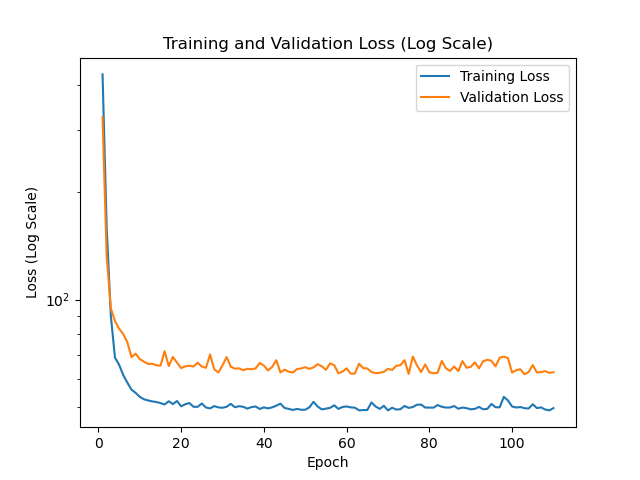
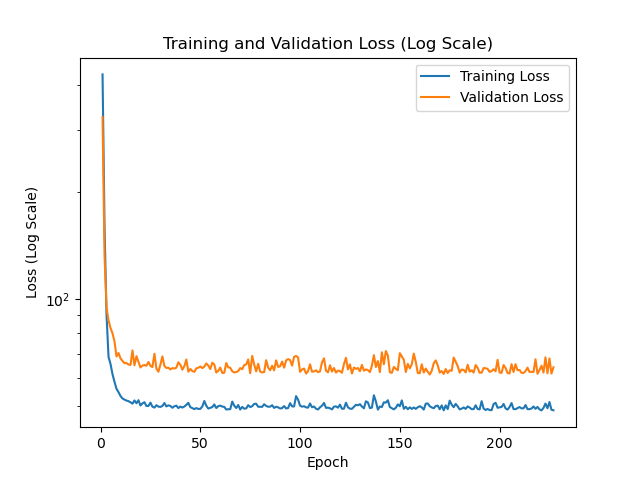
+ 2 node data

diff --git a/training/results/simple_graphs/model.py b/training/results/simple_graphs/model.py
@@ -1,0 +1,78 @@
+import torch
+import torch.nn.functional as F
+from torch_geometric.data import Data
+from torch_geometric.nn import GraphConv, global_mean_pool
+
+
+class GNN(torch.nn.Module):
+    def __init__(self, num_features, hidden_channels):
+        super(GNN, self).__init__()
+        torch.manual_seed(1)
+        self.conv1 = GraphConv(num_features, hidden_channels)
+        self.conv2 = GraphConv(hidden_channels, hidden_channels)
+        self.lin = torch.nn.Linear(hidden_channels, 1)
+
+    def forward(self, x, edge_index, edge_weight, batch):
+
+        # print(f"Shape of x: {x.shape}")
+        x = self.conv1(x, edge_index, edge_weight)
+
+        # print(f"Shape of x after conv1: {x.shape}")
+        x = F.relu(x)
+
+        x = self.conv2(x, edge_index, edge_weight)
+        # print(f"Shape of x after conv2: {x.shape}")
+
+        x = global_mean_pool(x, batch)
+        # print(f"Shape of x after global_mean_pool: {x.shape}")
+
+        x = F.dropout(x, p=0.5, training=self.training)
+        x = self.lin(x)
+
+        return x
+
+
+if __name__ == "__main__":
+
+    from training.dataset import load_data
+
+    train_loader, val_loader = load_data("data/training_data", batch_size=64)
+    model = GNN(2, 32)
+    optimizer = torch.optim.Adam(model.parameters(), lr=0.01)
+    criterion = torch.nn.MSELoss()
+
+    from tqdm import tqdm
+
+
+    def train(loader):
+        model.train()
+        loop = tqdm(loader, desc="Training")
+
+        for idx, data  in enumerate(loop):
+            optimizer.zero_grad()
+
+            out = model(data.x, data.edge_index, data.edge_attr, data.batch)
+            loss = criterion(out, data.y)
+
+            loss.backward()
+            optimizer.step()
+
+            loop.set_postfix(loss=loss.item())
+
+
+    def test(loader):
+        model.eval()
+        total_loss = 0
+        with torch.no_grad():
+            for data in loader:
+                out = model(data.x, data.edge_index, data.edge_attr, data.batch)
+                loss = criterion(out, data.y)
+                total_loss += loss.item()
+
+        avg_loss = total_loss / len(loader)
+        print(f"Valid loss: {avg_loss}")
+
+    for epoch in range(1, 10000):
+        print(f"Epoch {epoch}")
+        train(train_loader)
+        test(val_loader)

diff --git a/data/random_graph_gen_test.py b/data/random_graph_gen_test.py
@@ -6,7 +6,7 @@ useable graph from nx
 https://networkx.org/documentation/stable/reference/generators.html#module-networkx.generators.directed
 """
 
-num_nodes = 7  # Example number of nodes
+num_nodes = 2  # Example number of nodes
 
 fig, axes = plt.subplots(nrows=3, ncols=2, figsize=(12, 18))
 plt.subplots_adjust(hspace=0.5)
@@ -18,7 +18,7 @@ nx.draw(graph, pos, with_labels=True, node_size=300, node_color="skyblue", arrow
 axes[0, 0].set_title("GN Graph")
 
 # GNR Graph
-graph = nx.gnr_graph(num_nodes, 0.3, seed=42)
+graph = nx.gnr_graph(num_nodes, 1, seed=42)
 pos = nx.spring_layout(graph)
 nx.draw(graph, pos, with_labels=True, node_size=300, node_color="skyblue", arrows=True, ax=axes[0, 1])
 axes[0, 1].set_title("GNR Graph")

diff --git a/training/train.py b/training/train.py
@@ -7,12 +7,9 @@ from training.dataset import load_data
 from training.utils import does_path_exist, copy_model_to_results, plot_and_save_loss
 
 import time
-import pickle
-import sys
 import math
 import yaml
 import argparse
-import matplotlib.pyplot as plt
 
 from tqdm import tqdm
 
@@ -84,7 +81,7 @@ def main():
 
     train_loader, test_loader = load_data(DATA_DIR, BATCH_SIZE)
 
-    model = GNN(num_features=INPUT_FEATURES, hidden_channels=512).to(DEVICE)
+    model = GNN(num_features=INPUT_FEATURES, hidden_channels=8).to(DEVICE)
     print(
         f"Parameters: {sum(p.numel() for p in model.parameters() if p.requires_grad)}"
     )

diff --git a/data/simulate_latency_on_graphs.py b/data/simulate_latency_on_graphs.py
@@ -52,7 +52,7 @@ if __name__ == "__main__":
 
     if args.test:
         # graph = load_graph_from_json("data/test_task_graph.json")
-        graph_path = "data/training_data/input/task_graph_13.json"
+        graph_path = "data/training_data/input/task_graph_0.json"
         graph = load_graph_from_json(graph_path)
         visualize_graph(graph)
         latency = simlate_latency_from_graph(

diff --git a/data/create_graph_tasks.py b/data/create_graph_tasks.py
@@ -104,7 +104,8 @@ def test_function(num_nodes: int):
 
 def generate_n_graphs(count: int):
     for i in range(count):
-        random_num_nodes = random.randint(2, 6)
+        # random_num_nodes = random.randint(2, 3)
+        random_num_nodes = 2
         graph = generate_graph(random_num_nodes)
         modified_graph = modify_graph_to_task_graph(graph)
 
